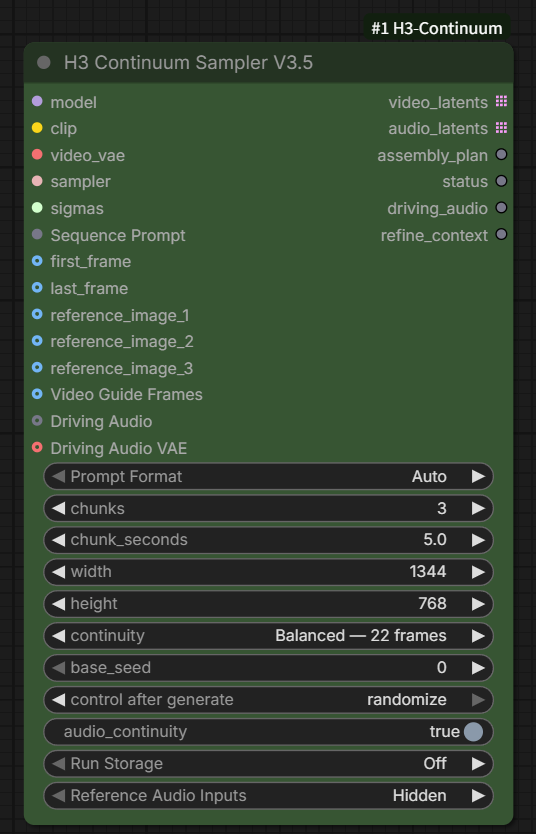
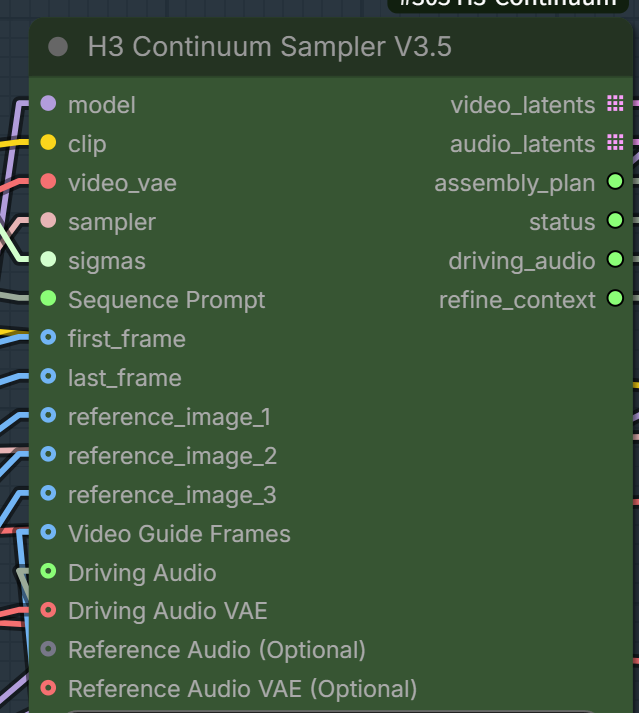
Update V3.5.1 hotfix workflow and docs

diff --git a/tests/test_v351_reference_audio_ui.py b/tests/test_v351_reference_audio_ui.py
@@ -1,5 +1,6 @@
 from __future__ import annotations
 
+import json
 import shutil
 import subprocess
 from pathlib import Path
@@ -8,6 +9,12 @@ from pathlib import Path
 ROOT = Path(__file__).resolve().parents[1]
 PROJECT_ID_JS = ROOT / "web" / "project_id.js"
 REFERENCE_AUDIO_UI_JS = ROOT / "web" / "reference_audio_ui.js"
+BRIDGE_WORKFLOW = (
+    ROOT
+    / "examples"
+    / "workflows"
+    / "MiniMax_H3_Continuum_V351_LBH_Conditioning_Bridge.json"
+)
 
 
 def test_v35_keeps_reference_audio_inputs_permanent_after_node_setup():
@@ -166,3 +173,40 @@ assert.deepEqual(
         check=False,
     )
     assert result.returncode == 0, result.stdout + result.stderr
+
+
+def test_bundled_bridge_workflow_has_permanent_sockets_and_aligned_widgets():
+    workflow = json.loads(BRIDGE_WORKFLOW.read_text(encoding="utf-8"))
+    sampler = next(
+        node for node in workflow["nodes"] if node["type"] == "H3ContinuumSamplerV35"
+    )
+    expected = {
+        "prompt_mode": "Auto",
+        "chunks": 1,
+        "chunk_seconds": 5,
+        "width": 1344,
+        "height": 768,
+        "continuity": "Fast — 5 frames",
+        "base_seed": 783839598838387,
+        "control_after_generate": "randomize",
+        "audio_continuity": True,
+        "diagnostics": "Detailed Report",
+        "reroll_from_chunk": "Auto",
+        "reroll_nonce": 0,
+        "strict_compatibility": False,
+        "debug": False,
+        "show_preview": True,
+        "run_storage": "Off",
+        "run_name": "",
+        "reference_size": "Match Output",
+        "project_id": "d1c61168-c72e-44d1-9b78-1c9adb4eba0e",
+        "video_reference_size": "Efficient - 0.4 MP",
+    }
+
+    assert sampler["widgets_values"] == list(expected.values())
+    assert sampler["widgets_values_named"] == expected
+    input_names = [input_["name"] for input_ in sampler["inputs"]]
+    assert input_names[input_names.index("audio_vae") + 1 : input_names.index("width")] == [
+        "reference_audio_1",
+        "reference_audio_vae",
+    ]

diff --git a/README.md b/README.md
@@ -14,7 +14,7 @@ Long-form MiniMax H3 video generation for ComfyUI with Continuum-aware Second Pa
 
 V3.5.1 completes three focused additions without changing the V3.4 Sampling, Conditioning, Terminal Merge, Assembly, Seam, or Run Storage contracts:
 
-1. **Optional Reference Audio** — native H3 audio conditioning that does not replace the generated final audio. The two additional sockets stay hidden until `Reference Audio Inputs` is set to `Show`.
+1. **Optional Reference Audio** — native H3 audio conditioning that does not replace the generated final audio. Both sockets remain permanently visible to preserve workflow save/reload compatibility.
 2. **Conditioning Bridge V3.5** — exposes one complete Core-compatible `MODEL` and one complete `CONDITIONING` object per Continuum physical group for an external sampler workflow.
 3. **Last queued seed reuse** — when ComfyUI changes a randomized seed after generation, switching the Sampler back to Fixed restores the seed used by the last queued run when it is still safe to do so. Existing ComfyUI cache behavior is not overridden.
 
@@ -31,19 +31,11 @@ The displayed names intentionally describe different jobs. They are not intercha
 
 For the common video-with-sound case, connect the loader's `IMAGE` output to `Video Guide Frames` and its `AUDIO` output to `Driving Audio`. Do not connect that audio to `Reference Audio (Optional)` unless conditioning-only behavior is specifically intended.
 
-![Sampler V3.5 Video Guide Frames, Driving Audio, and Reference Image inputs](docs/images/v351-video-guide-frames.png)
+![Sampler V3.5 permanent Reference Audio, Video Guide Frames, Driving Audio, and Reference Image inputs](docs/images/v351-video-guide-frames.png)
 
-`Reference Audio Inputs` is a UI-only visibility control:
+`Reference Audio (Optional)` and `Reference Audio VAE (Optional)` are always present exactly as defined by the node's Python input schema. V3.5.1 no longer adds or removes these sockets dynamically and has no frontend-only `Hidden`/`Show` widget. This keeps positional widget values aligned when workflows are saved and reloaded; backend input keys and existing workflow links are unchanged.
 
-- `Hidden` is the uncluttered default for unlinked inputs.
-- `Show` displays both optional Reference Audio sockets.
-- A saved workflow with either socket connected opens in `Show` automatically.
-- Connected sockets cannot be hidden, so the UI never removes a graph link.
-- The control is not serialized into workflow widget values; backend input keys and existing workflow links remain unchanged.
-
-| Hidden — normal uncluttered view | Show — optional conditioning sockets visible |
-|---|---|
-| ![Reference Audio inputs hidden](docs/images/v351-reference-audio-hidden.png) | ![Reference Audio inputs shown](docs/images/v351-reference-audio-show.png) |
+![Sampler V3.5.1 with permanent Reference Audio sockets and aligned widgets](docs/images/v351-reference-audio-permanent.png)
 
 ### Conditioning Bridge V3.5
 
@@ -310,7 +302,7 @@ Restart ComfyUI after installation or update.
 
 ### H3 Continuum Sampler V3.5
 
-The V3.5 sampler preserves V3.4 generation behavior and adds `refine_context` as the sixth output. Connect it to V3.5 Hi-Res Fix, Second Pass, or Conditioning Bridge paths that need the original conditioning context. V3.5.1 also provides optional Reference Audio sockets through the `Reference Audio Inputs` visibility control.
+The V3.5 sampler preserves V3.4 generation behavior and adds `refine_context` as the sixth output. Connect it to V3.5 Hi-Res Fix, Second Pass, or Conditioning Bridge paths that need the original conditioning context. V3.5.1 also provides permanently visible optional Reference Audio sockets.
 
 ### H3 Continuum Conditioning Bridge V3.5
 
@@ -575,7 +567,7 @@ Use a 24 fps source for `Video Guide Frames`. `Load Video (Upload)` may accept f
 
 ## Current validation status
 
-The V3.5.1 release passes `450` automated tests, source/runtime registration verification, native PackedLayout, Fixed 3x5 prompt planning, JavaScript UI harnesses, and release metadata consistency. Representative GPU acceptance includes the V3.5 Conditioning Bridge path, Reference Audio/Image retention, Second Pass/Hi-Res paths, and accepted 3x5 FL2VA Long Terminal Merge latents through Core Video/Audio VAE Decode and Assemble V3.5 Auto.
+The V3.5.1 release passes `452` automated tests, source/runtime registration verification, native PackedLayout, Fixed 3x5 prompt planning, JavaScript UI harnesses, and release metadata consistency. Representative GPU acceptance includes the V3.5 Conditioning Bridge path, Reference Audio/Image retention, Second Pass/Hi-Res paths, and accepted 3x5 FL2VA Long Terminal Merge latents through Core Video/Audio VAE Decode and Assemble V3.5 Auto.
 
 V3.4 compatibility paths have been exercised locally with:
 

diff --git a/PROJECT_STATE.md b/PROJECT_STATE.md
@@ -24,17 +24,17 @@ Updated: 2026-08-25
 
 ## V3.5.1 Issue #10 Reference Audio candidate (2026-08-24)
 
-- Target version is V3.5.1. The backend keeps the optional `reference_audio_1` and `reference_audio_vae` sockets in their existing input order. The frontend presents them as `Reference Audio (Optional)` and `Reference Audio VAE (Optional)` behind the UI-only `Reference Audio Inputs` dropdown.
-- New or unlinked nodes default to `Hidden`. `Show` restores both sockets at their original positions. A saved workflow with either socket connected opens in `Show`, and `Hidden` is rejected while either link exists; the UI never removes a graph link. The dropdown is added only after Core graph configuration and is excluded from Workflow JSON widget values, preventing widget-value shifts on reload.
+- Target version is V3.5.1. The optional `reference_audio_1` and `reference_audio_vae` sockets remain permanently present in their Python-defined input order and are displayed as `Reference Audio (Optional)` and `Reference Audio VAE (Optional)`.
+- The earlier frontend-only `Reference Audio Inputs` dropdown and all dynamic socket add/remove behavior were removed by the compatibility hotfix. Workflow serialization now contains only the Python-defined widgets, preserving positional widget-value alignment across save/reload.
 - Related display labels are now `Video Guide Frames`, `Driving Audio`, and `Driving Audio VAE`. Input keys, order, types, Node IDs, and runtime contracts remain unchanged.
 - This exposes the existing Core-compatible standalone Reference Audio 1 path; it adds no new audio encoding, strength control, model allowlist, source-audio copy, or lip-sync guarantee.
 - V3.4 input keys/order/types, Node ID, sockets, and behavior remain unchanged; only the human-facing labels/tooltips are clarified. Its internal `run()` accepts the two values only so V3.5 can forward them to the existing Production path.
 - Reference Audio conditions generated video/audio and leaves generated audio as final. Driving Audio remains the separate timeline-guide path whose original source is selected as final output.
 - CPU integration confirms Reference Audio survives every normal physical group and the FL2VA Terminal Merge group (`logical [2,3]`, `paired_timeline_v1`) in `refine_context`. Run Storage ignores an unused Reference Audio VAE, separates changed audio contracts, and restores the disconnected revision identity.
 - Final canonical validation after the conditional UI change is `450 passed` with only the known `pynvml` FutureWarning. JavaScript syntax, `git diff --check`, ComfyUI_W registration/native PackedLayout/Fixed 3x5 verification, and source/runtime SHA-256 equality for synchronized implementation files pass.
-- Live ComfyUI acceptance passed for unlinked `Hidden`, `Hidden -> Show -> Hidden`, original-position socket restoration, clarified labels, linked-workflow auto-`Show`, and rejection of `Hidden` while linked. The user had already accepted the V3.5.1 generation test categories as all-clear; this UI-only step did not queue another GPU generation.
+- The earlier conditional-visibility UI acceptance is superseded: a saved/reloaded workflow exposed positional widget corruption under the current frontend. The permanent-socket hotfix removes that frontend mutation path without changing Reference Audio execution.
 - The CPU-validated public feature files were previously published from the isolated clone as `a704aa961fc2ba0c19aef6f2ecfdcb46fa9384b2`. GPU acceptance is now complete and package metadata plus public documentation are being formalized as V3.5.1.
-- V3.5.1 release validation is `450 passed` from the ComfyUI_W root, JavaScript syntax PASS, `git diff --check` PASS, and all 172 distribution Manifest entries match SHA-256. README English/Japanese use the user-supplied normal-state screenshots for Video Guide Frames and Reference Audio Hidden/Show.
+- The pre-hotfix V3.5.1 release baseline was `450 passed`. Hotfix validation is `452 passed` with explicit workflow save/reload widget-alignment coverage and only the known `pynvml` FutureWarning. JavaScript syntax and `git diff --check` pass. The two frontend files are synchronized to ComfyUI_W by SHA-256; live save/reload acceptance remains pending.
 - The public LBH/Conditioning Bridge connection example is `examples/workflows/MiniMax_H3_Continuum_V351_LBH_Conditioning_Bridge.json`; its README chart is `docs/images/v351-lbh-conditioning-bridge-flow.svg`. It is a separate example and does not replace or modify the recommended V3.5 template.
 
 ## V3.5.1 Last Queued Seed reuse frontend validation (2026-08-24)

diff --git a/README_JA.md b/README_JA.md
@@ -8,7 +8,7 @@ MiniMax H3を複数チャンクで連続生成し、直前チャンク末尾の*
 
 V3.5.1では、V3.4のSampling、Conditioning、Terminal Merge、Assembly、Seam、Run Storage契約を変更せず、次の3点を追加します。
 
-1. **Reference Audio（任意）**: 生成音声を置換しない、H3 nativeの音声conditioningです。`Reference Audio Inputs`を`Show`にしたときだけ2つのsocketを表示します。
+1. **Reference Audio（任意）**: 生成音声を置換しない、H3 nativeの音声conditioningです。Workflowの保存・再読込互換を守るため、2つのsocketは常時表示します。
 2. **Conditioning Bridge V3.5**: Continuumのphysical groupごとに、完全なCore互換`MODEL`と`CONDITIONING`を外部Samplerへ公開します。
 3. **Last Queued Seed Reuse**: Randomize生成後にComfyUIが自動更新したseedからFixedへ戻した場合、安全に判定できるときだけ直前Queueで実際に使ったseedを復元します。ComfyUI cache自体は操作しません。
 
@@ -25,19 +25,11 @@ V3.5.1では、V3.4のSampling、Conditioning、Terminal Merge、Assembly、Seam
 
 音声付き動画を使う通常の接続は、loaderの`IMAGE`を`Video Guide Frames`へ、`AUDIO`を`Driving Audio`へ接続します。conditioning専用動作が目的でない限り、動画の音声を`Reference Audio (Optional)`へ接続しないでください。
 
-![Sampler V3.5のVideo Guide Frames、Driving Audio、Reference Image入力](docs/images/v351-video-guide-frames.png)
+![Sampler V3.5の常設Reference Audio、Video Guide Frames、Driving Audio、Reference Image入力](docs/images/v351-video-guide-frames.png)
 
-`Reference Audio Inputs`は表示だけを制御します。
+`Reference Audio (Optional)`と`Reference Audio VAE (Optional)`は、Pythonのinput schemaどおり常時表示します。V3.5.1ではこの2 socketをFrontendで動的に追加・削除せず、UI-onlyの`Hidden`／`Show` widgetも使用しません。これによりWorkflowを保存・再読込した際のwidget値の位置ずれを防ぎます。backend input keyと既存接続は変更しません。
 
-- 未接続時は`Hidden`が既定です。
-- `Show`でReference Audioの2 socketを表示します。
-- 保存workflowでどちらかが接続済みなら自動的に`Show`で開きます。
-- 接続中は`Hidden`へ変更できず、graph linkを削除しません。
-- workflowのwidget値には保存せず、backend input keyと既存接続を変更しません。
-
-| Hidden — 通常の簡潔表示 | Show — 任意conditioning socketを表示 |
-|---|---|
-| ![Reference Audio入力を非表示](docs/images/v351-reference-audio-hidden.png) | ![Reference Audio入力を表示](docs/images/v351-reference-audio-show.png) |
+![常設Reference Audio socketと正常なwidget配置](docs/images/v351-reference-audio-permanent.png)
 
 ### Conditioning Bridge V3.5
 
@@ -230,7 +222,7 @@ ZIPを展開して、`ComfyUI-H3-Continuum`フォルダーを`ComfyUI/custom_nod
 
 ## 検査
 
-V3.5.1正式版は全`450 passed`、source/runtime登録検証、PackedLayout、Fixed 3×5 Prompt Plan、JavaScript UI harnessを通過しています。代表GPU受入にはConditioning Bridge、Reference Audio/Image保持、Second Pass／Hi-Res経路、3×5秒FL2VA Long Terminal MergeからCore Video/Audio VAE Decode、Assemble V3.5 Autoまでを含みます。
+V3.5.1正式版は全`452 passed`、source/runtime登録検証、PackedLayout、Fixed 3×5 Prompt Plan、JavaScript UI harnessを通過しています。代表GPU受入にはConditioning Bridge、Reference Audio/Image保持、Second Pass／Hi-Res経路、3×5秒FL2VA Long Terminal MergeからCore Video/Audio VAE Decode、Assemble V3.5 Autoまでを含みます。
 
 Main Hi-Res Fixの3×5秒2xは、RTX 5060 Ti 16 GiBで37T groupの1152×1152 Second Pass完了後、Terminal Mergeの77T group最初の推論時にCUDA OOMとなり未受入です。Reference/Hybrid固有の1×5秒Second Passは受入済みですが、長尺Reference/Hybridは未確認です。Disk-backedが保証する低メモリ範囲はContinuum Assemblyであり、Core Decodeや下流ノードが別の全量copyを作る可能性は残ります。
 

diff --git a/WORKLOG.md b/WORKLOG.md
@@ -421,3 +421,12 @@ D:\Codex\_snapshots\ComfyUI-H3-Continuum\pre-rollback-after-00038-fail-20260821_
 - No Production runtime contract, Hi-Res Fix algorithm, Node ID, V3.4/V3.5 compatibility path, or runtime dependency changed.
 - Pre-change snapshot: `pre-ci-dependency-stub-fix-source-accepted-20260825_005009` (478 files), excluding `.git` and the known ACL-inaccessible `.pytest_cache` after the standard snapshot script encountered that existing ACL condition.
 - Confirmed the prior README clarification was already on public `main` and closed GitHub Issue #11 as completed. Issues #9, #10, and #11 are now all closed with implementation answers.
+
+## 2026-08-25 - V3.5.1 Reference Audio permanent-socket compatibility hotfix
+
+- The standard snapshot script stopped only on the known ACL-inaccessible `.pytest_cache`. Accepted snapshots are `pre-v351-reference-audio-permanent-sockets-source-accepted-20260825_024425_613` (478 files) and `pre-v351-reference-audio-permanent-sockets-runtime-w-accepted-20260825_024426_476` (350 files), excluding `.git` and `.pytest_cache` with matching source/destination file counts.
+- Removed all frontend `addInput`/`removeInput` behavior for `reference_audio_1` and `reference_audio_vae`, the UI-only `Reference Audio Inputs` Hidden/Show widget, its connection callbacks, and its serialization guard. Both sockets now remain permanently present exactly as defined by `H3ContinuumSamplerV35.INPUT_TYPES`.
+- Retained only human-facing label normalization for Video Guide Frames, Driving Audio, and Reference Audio. Node IDs, backend socket keys/order/types, Sampling, Conditioning, Last Queued Seed Reuse, V3.4 behavior, and all other conditional widgets are unchanged.
+- Added a real JavaScript save/reload regression that serializes the complete 20-value V3.5 widget sequence, reloads it positionally, and verifies every value remains aligned while both Reference Audio sockets retain their names and order. The bundled LBH/Conditioning Bridge example now has the same aligned 20-value sequence and both permanent sockets. Focused validation is `13 passed`; full validation is `452 passed`; JavaScript syntax and `git diff --check` pass. The only warning is the known `pynvml` FutureWarning.
+- Synchronized only `web/project_id.js` and `web/reference_audio_ui.js` to ComfyUI_W and verified exact source/runtime SHA-256 equality. The two matching runtime Manifest entries were updated without normalizing its pre-existing unrelated 30 missing/divergent entries. No ComfyUI process was started, stopped, or restarted; live workflow save/reload acceptance is left to the already-running user environment.
+- Removed the obsolete Hidden/Show comparison article and its two screenshots. Replaced the input overview with the user-supplied permanent-socket view and added the user-supplied full sampler view showing the corrected widget alignment.

diff --git a/CHANGELOG.md b/CHANGELOG.md
@@ -3,7 +3,7 @@
 ## 3.5.1
 
 - Added `H3 Continuum Conditioning Bridge V3.5`, exposing one complete Core-compatible MODEL and CONDITIONING object per Continuum physical group without flattening CONDITIONING entries.
-- Added optional standalone Reference Audio conditioning to Sampler V3.5. Its sockets default to hidden when unlinked, automatically reopen for connected workflows, and never remove graph links.
+- Added optional standalone Reference Audio conditioning to Sampler V3.5. Its two Python-defined sockets remain permanently present; the frontend no longer adds/removes them or serializes a visibility-only widget, preserving workflow widget alignment on save/reload.
 - Added Last Queued Seed Reuse for the V3.5 sampler, restoring the seed used by the previous queue when switching from ComfyUI Randomize to Fixed while respecting manual seed edits and normal cache behavior.
 - Renamed the displayed video-guide inputs to `Video Guide Frames` and `Video Guide Size` to distinguish a video loader's IMAGE frame batch from still Reference Images. Backend input keys and saved-workflow links are unchanged.
 - GPU-accepted Conditioning Bridge generation, Reference Audio/Image retention, and the V3.5 Second Pass/Hi-Res paths while preserving physical-group, Terminal Merge, Run Storage, and audio contracts.
